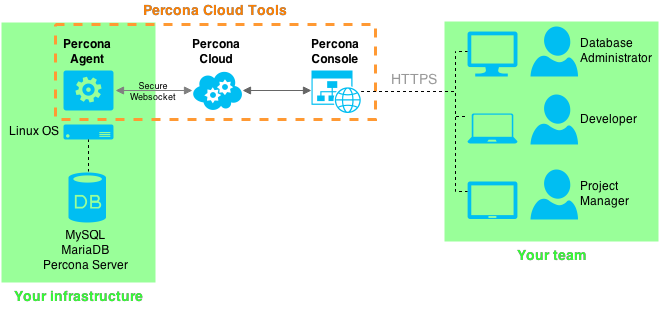
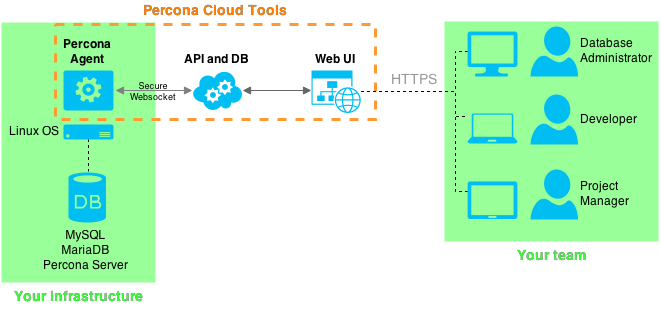
Removed mentions of Percona Cloud and Percona Console

Changed region(s): [[0.2723, 0.1158, 0.3933, 0.2026], [0.4539, 0.1158, 0.5446, 0.2026]]

diff --git a/doc/index.rst b/doc/index.rst
@@ -14,12 +14,11 @@ that rely on MySQL performance.
 
 Data is collected using :term:`Percona Agent`,
 which runs on a Linux server as a background service.
-The agent sends MySQL metrics data to :term:`Percona Cloud`
-through a secure websocket connection,
-where it is processed and stored.
+The agent connects to an API server
+hosted by Percona through a secure websocket,
+and stores MySQL metrics and other performance data in a database.
 You can access and analyse collected performance data
-using :term:`Percona Console`,
-which is a web interface accessed from your browser via HTTPS.
+using the web UI accessed from your browser via HTTPS.
 
 .. image:: images/pct-diagram.png
 
@@ -63,7 +62,7 @@ Contents
  How to install, manage, update, and uninstall :term:`Percona Agent`.
 
 :doc:`WebInterface`
- Understanding the general layout of :term:`Percona Console`.
+ Understanding the general layout of the web UI.
 
 :doc:`Performance`
  How to use the **Performance** module.

diff --git a/doc/glossary.rst b/doc/glossary.rst
@@ -38,17 +38,19 @@ This is a glossary of terms related to Percona Cloud Tools (PCT).
     A service that runs on the server,
     collects data about perfomance and MySQL metrics,
     and sends it to :term:`Percona Cloud`.
-
+..
    Percona Cloud
     Internal infrastructure at the heart of PCT, hosted by Percona.
     In simple terms, it consists of an API server and a database server.
     The API is built to enable both :term:`Percona Agent`
     and :term:`Percona Console` to interact with the database
     of collected metrics.
-
+..
    Percona Console
     Web-based graphical user interface (web GUI)
     that enables users to access data collected by :term:`Percona Agent`.
+
+.. glossary::
 
    Percona Toolkit
     A collection of advanced command-line tools

diff --git a/doc/WebInterface.rst b/doc/WebInterface.rst
@@ -1,17 +1,19 @@
 .. _console:
 
-Percona Console
+Web Interface
 ===============
 
-Percona Console is a simple and very powerful web interface
+Percona Cloud Tools provides a simple and very powerful web interface
 for monitoring and analyzing collected MySQL performance data.
 You can see your whole infrastructure, manage it, configure,
 and analyze collected data to improve performance.
 
+The web interface is located at `cloud.percona.com <http://cloud.percona.com`_
+
 Toolbar
 -------
 
-The top part of Percona Console contains various menus in the toolbar,
+The top part of the web UI contains various menus in the toolbar,
 while the bottom part is reserved for displaying data.
 
 .. image:: images/PerconaConsole-head.png

diff --git a/doc/Agent.rst b/doc/Agent.rst
@@ -14,9 +14,9 @@ Percona Agent
       
 
 Percona Agent is a background service that collects MySQL server metrics
-and sends this data to :term:`Percona Cloud`
-over a secure websocket connection.
-It uses a unique :term:`API key` to identify the data
+and sends this data over a secure websocket connection to the API
+tha stores it in a database hosted by Percona.
+The agent uses a unique :term:`API key` to identify the data
 for a specific :term:`organization`.
 
 Percona Agent code is open source, and available on
